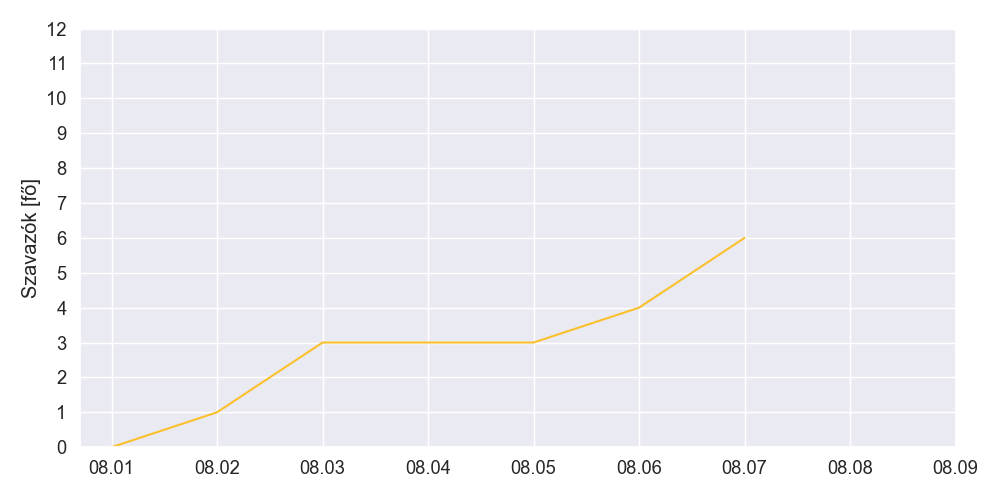
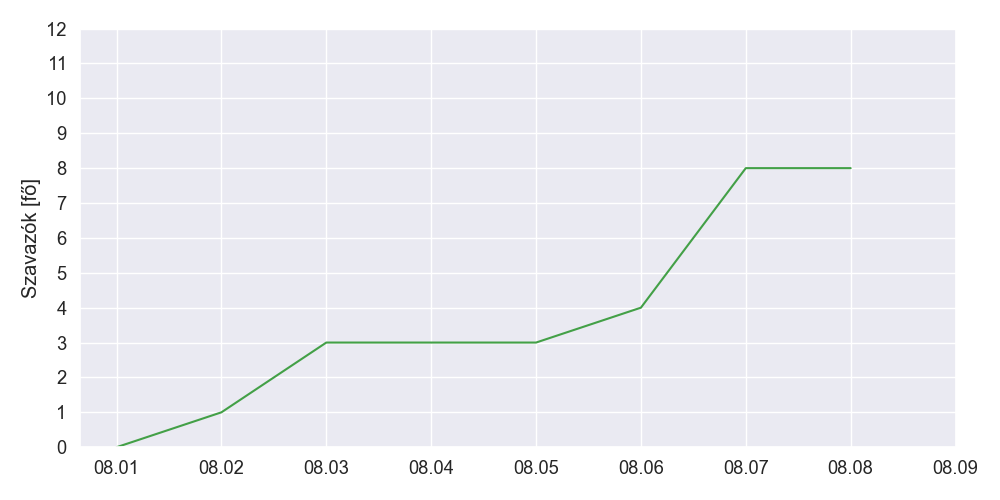
Sync from private repo

diff --git a/poll-progress.html b/poll-progress.html
@@ -35,8 +35,8 @@
         }
         .progress-bar {
             height: 100%;
-            width: 50.0%;
-            background-color: #fbc02d;
+            width: 66.66666666666666%;
+            background-color: #43a047;
         }
         .progress-text {
             position: absolute;
@@ -56,7 +56,7 @@
     </style>
 </head>
 <body>
-    <h1>Részvételi arány - 2025.08.07. 17:28</h1>
+    <h1>Részvételi arány - 2025.08.08. 07:23</h1>
 
     <div class="chart">
         <img src="img/szavazatok.png" alt="Cumulative Voters Chart">
@@ -64,7 +64,7 @@
        
     <div class="progress-container">
         <div class="progress-bar"></div>
-        <div class="progress-text">6 / 12 (50%)</div>
+        <div class="progress-text">8 / 12 (66%)</div>
     </div>
 </body>
 </html>
